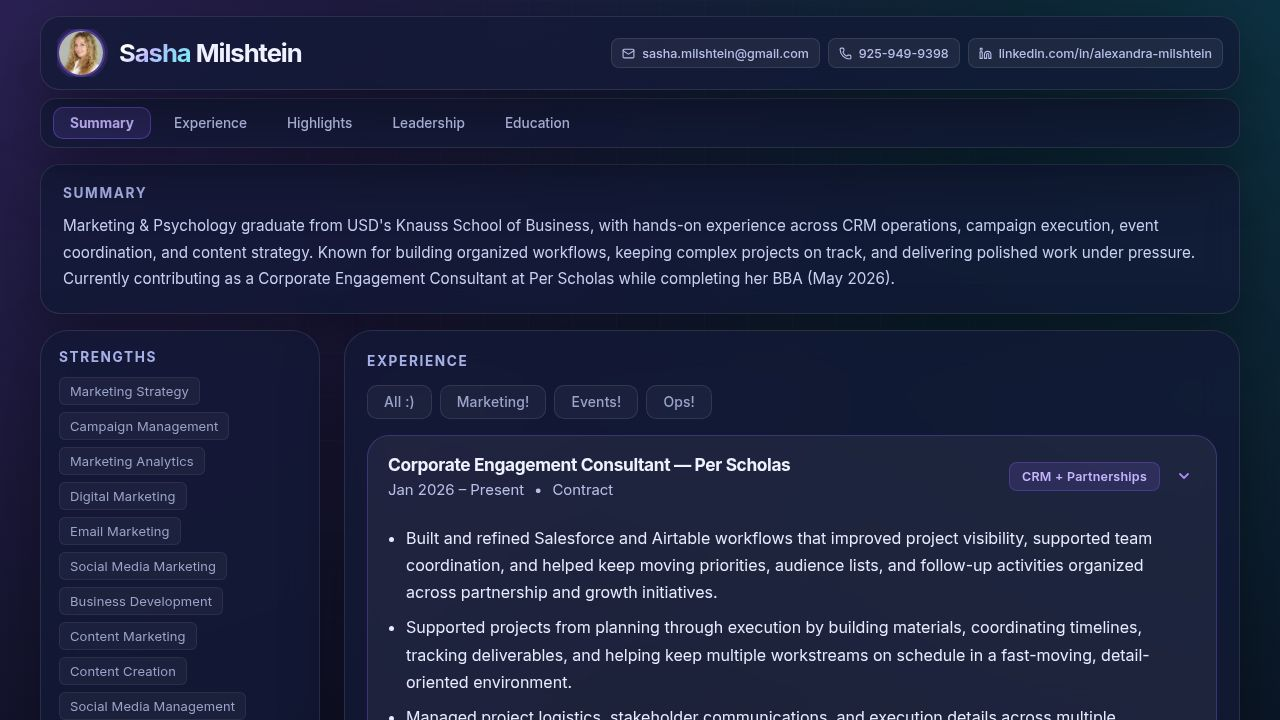
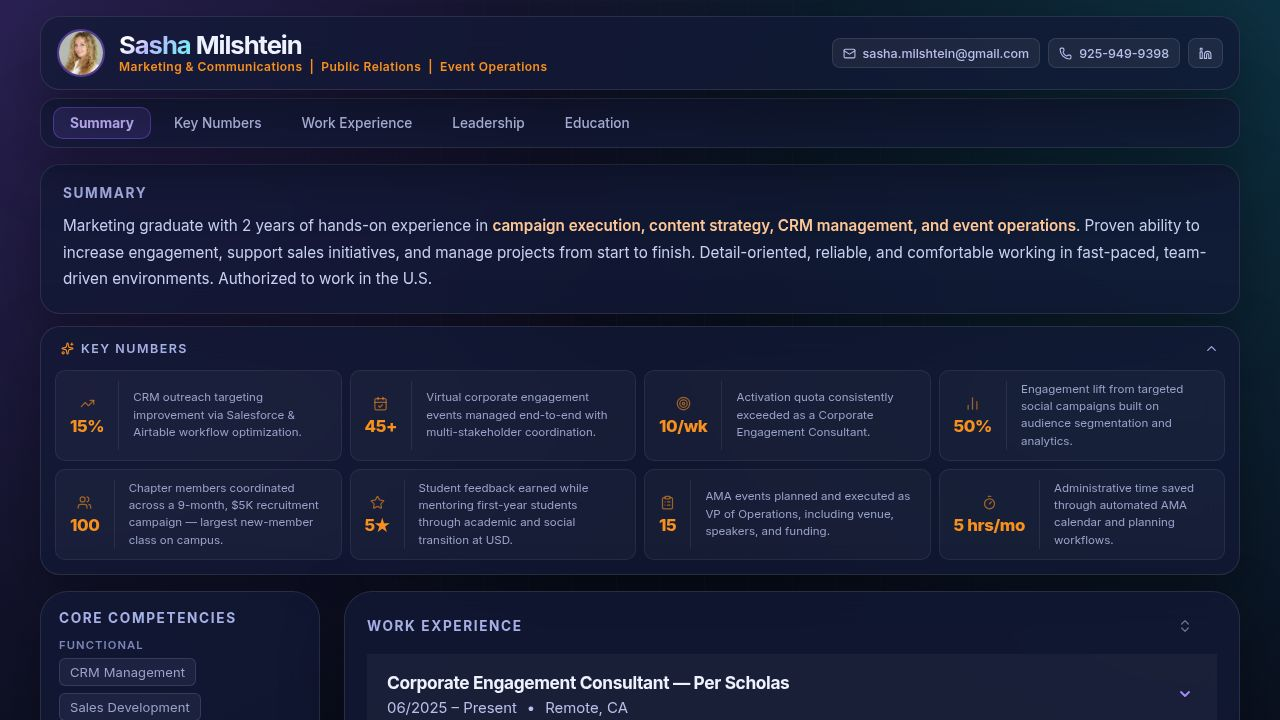
Task #5: Visually distinguish functional vs. soft skills in Core Competencies
Split the flat tag cloud in the Core Competencies section into two clearly labeled
sub-groups: "Functional" and "Soft Skills". Applied to both the sidebar desktop
view and the mobile view.

Changes:
- artifacts/resume/src/pages/Resume.tsx: Replaced single flat map over all
  competencies with two grouped <div> blocks, each with a small uppercase
  sub-label ("Functional" in blue-purple #7b86b8, "Soft Skills" in muted green
  #8fb8a8) and matching tag border/background tints to visually distinguish them.
- artifacts/resume/src/pages/MobileResume.tsx: Same two-group treatment applied
  to the mobile Core Competencies block for consistency.

No changes to resumeData.ts — the data was already split into functional/soft
arrays; we simply render them separately now.

No other sidebar sections were touched.

Replit-Task-Id: 5ddbad50-55d9-49d4-9675-af2ee222efec

diff --git a/artifacts/resume/src/pages/Resume.tsx b/artifacts/resume/src/pages/Resume.tsx
@@ -695,24 +695,51 @@ export default function Resume() {
             >
               Core Competencies
             </h2>
-            <div style={{ display: "flex", flexWrap: "wrap", gap: "7px" }}>
-              {[...data.competencies.functional, ...data.competencies.soft].map((item, i) => (
-                <span
-                  key={i}
-                  style={{
-                    padding: "5px 10px",
-                    borderRadius: "6px",
-                    background: "rgba(255,255,255,0.04)",
-                    border: "1px solid rgba(255,255,255,0.07)",
-                    color: "#9aa3c9",
-                    fontSize: "0.81rem",
-                    fontWeight: 400,
-                    letterSpacing: "0.01em",
-                  }}
-                >
-                  {item}
-                </span>
-              ))}
+            <div style={{ display: "flex", flexDirection: "column", gap: "10px" }}>
+              <div>
+                <p style={{ margin: "0 0 6px", fontSize: "0.7rem", textTransform: "uppercase", letterSpacing: "0.1em", color: "#7b86b8", fontWeight: 600 }}>Functional</p>
+                <div style={{ display: "flex", flexWrap: "wrap", gap: "7px" }}>
+                  {data.competencies.functional.map((item, i) => (
+                    <span
+                      key={i}
+                      style={{
+                        padding: "5px 10px",
+                        borderRadius: "6px",
+                        background: "rgba(165,176,230,0.08)",
+                        border: "1px solid rgba(165,176,230,0.18)",
+                        color: "#9aa3c9",
+                        fontSize: "0.81rem",
+                        fontWeight: 400,
+                        letterSpacing: "0.01em",
+                      }}
+                    >
+                      {item}
+                    </span>
+                  ))}
+                </div>
+              </div>
+              <div>
+                <p style={{ margin: "0 0 6px", fontSize: "0.7rem", textTransform: "uppercase", letterSpacing: "0.1em", color: "#8fb8a8", fontWeight: 600 }}>Soft Skills</p>
+                <div style={{ display: "flex", flexWrap: "wrap", gap: "7px" }}>
+                  {data.competencies.soft.map((item, i) => (
+                    <span
+                      key={i}
+                      style={{
+                        padding: "5px 10px",
+                        borderRadius: "6px",
+                        background: "rgba(143,184,168,0.08)",
+                        border: "1px solid rgba(143,184,168,0.18)",
+                        color: "#96bfac",
+                        fontSize: "0.81rem",
+                        fontWeight: 400,
+                        letterSpacing: "0.01em",
+                      }}
+                    >
+                      {item}
+                    </span>
+                  ))}
+                </div>
+              </div>
             </div>
           </div>
 

diff --git a/artifacts/resume/src/pages/MobileResume.tsx b/artifacts/resume/src/pages/MobileResume.tsx
@@ -243,23 +243,49 @@ export default function MobileResume({ data }: { data: ResumeData }) {
 
       {/* ── Core Competencies ── */}
       <SectionLabel>Core Competencies</SectionLabel>
-      <div style={{ display: "flex", flexWrap: "wrap", gap: "7px", marginBottom: "22px" }}>
-        {[...data.competencies.functional, ...data.competencies.soft].map((item, i) => (
-          <span
-            key={i}
-            style={{
-              padding: "5px 10px",
-              borderRadius: "6px",
-              background: "rgba(255,255,255,0.04)",
-              border: "1px solid rgba(255,255,255,0.07)",
-              color: c.muted,
-              fontSize: "0.81rem",
-              fontWeight: 400,
-            }}
-          >
-            {item}
-          </span>
-        ))}
+      <div style={{ display: "flex", flexDirection: "column", gap: "10px", marginBottom: "22px" }}>
+        <div>
+          <p style={{ margin: "0 0 6px", fontSize: "0.7rem", textTransform: "uppercase", letterSpacing: "0.1em", color: "#7b86b8", fontWeight: 600 }}>Functional</p>
+          <div style={{ display: "flex", flexWrap: "wrap", gap: "7px" }}>
+            {data.competencies.functional.map((item, i) => (
+              <span
+                key={i}
+                style={{
+                  padding: "5px 10px",
+                  borderRadius: "6px",
+                  background: "rgba(165,176,230,0.08)",
+                  border: "1px solid rgba(165,176,230,0.18)",
+                  color: "#9aa3c9",
+                  fontSize: "0.81rem",
+                  fontWeight: 400,
+                }}
+              >
+                {item}
+              </span>
+            ))}
+          </div>
+        </div>
+        <div>
+          <p style={{ margin: "0 0 6px", fontSize: "0.7rem", textTransform: "uppercase", letterSpacing: "0.1em", color: "#8fb8a8", fontWeight: 600 }}>Soft Skills</p>
+          <div style={{ display: "flex", flexWrap: "wrap", gap: "7px" }}>
+            {data.competencies.soft.map((item, i) => (
+              <span
+                key={i}
+                style={{
+                  padding: "5px 10px",
+                  borderRadius: "6px",
+                  background: "rgba(143,184,168,0.08)",
+                  border: "1px solid rgba(143,184,168,0.18)",
+                  color: "#96bfac",
+                  fontSize: "0.81rem",
+                  fontWeight: 400,
+                }}
+              >
+                {item}
+              </span>
+            ))}
+          </div>
+        </div>
       </div>
 
       {/* ── Tools & Platforms ── */}
